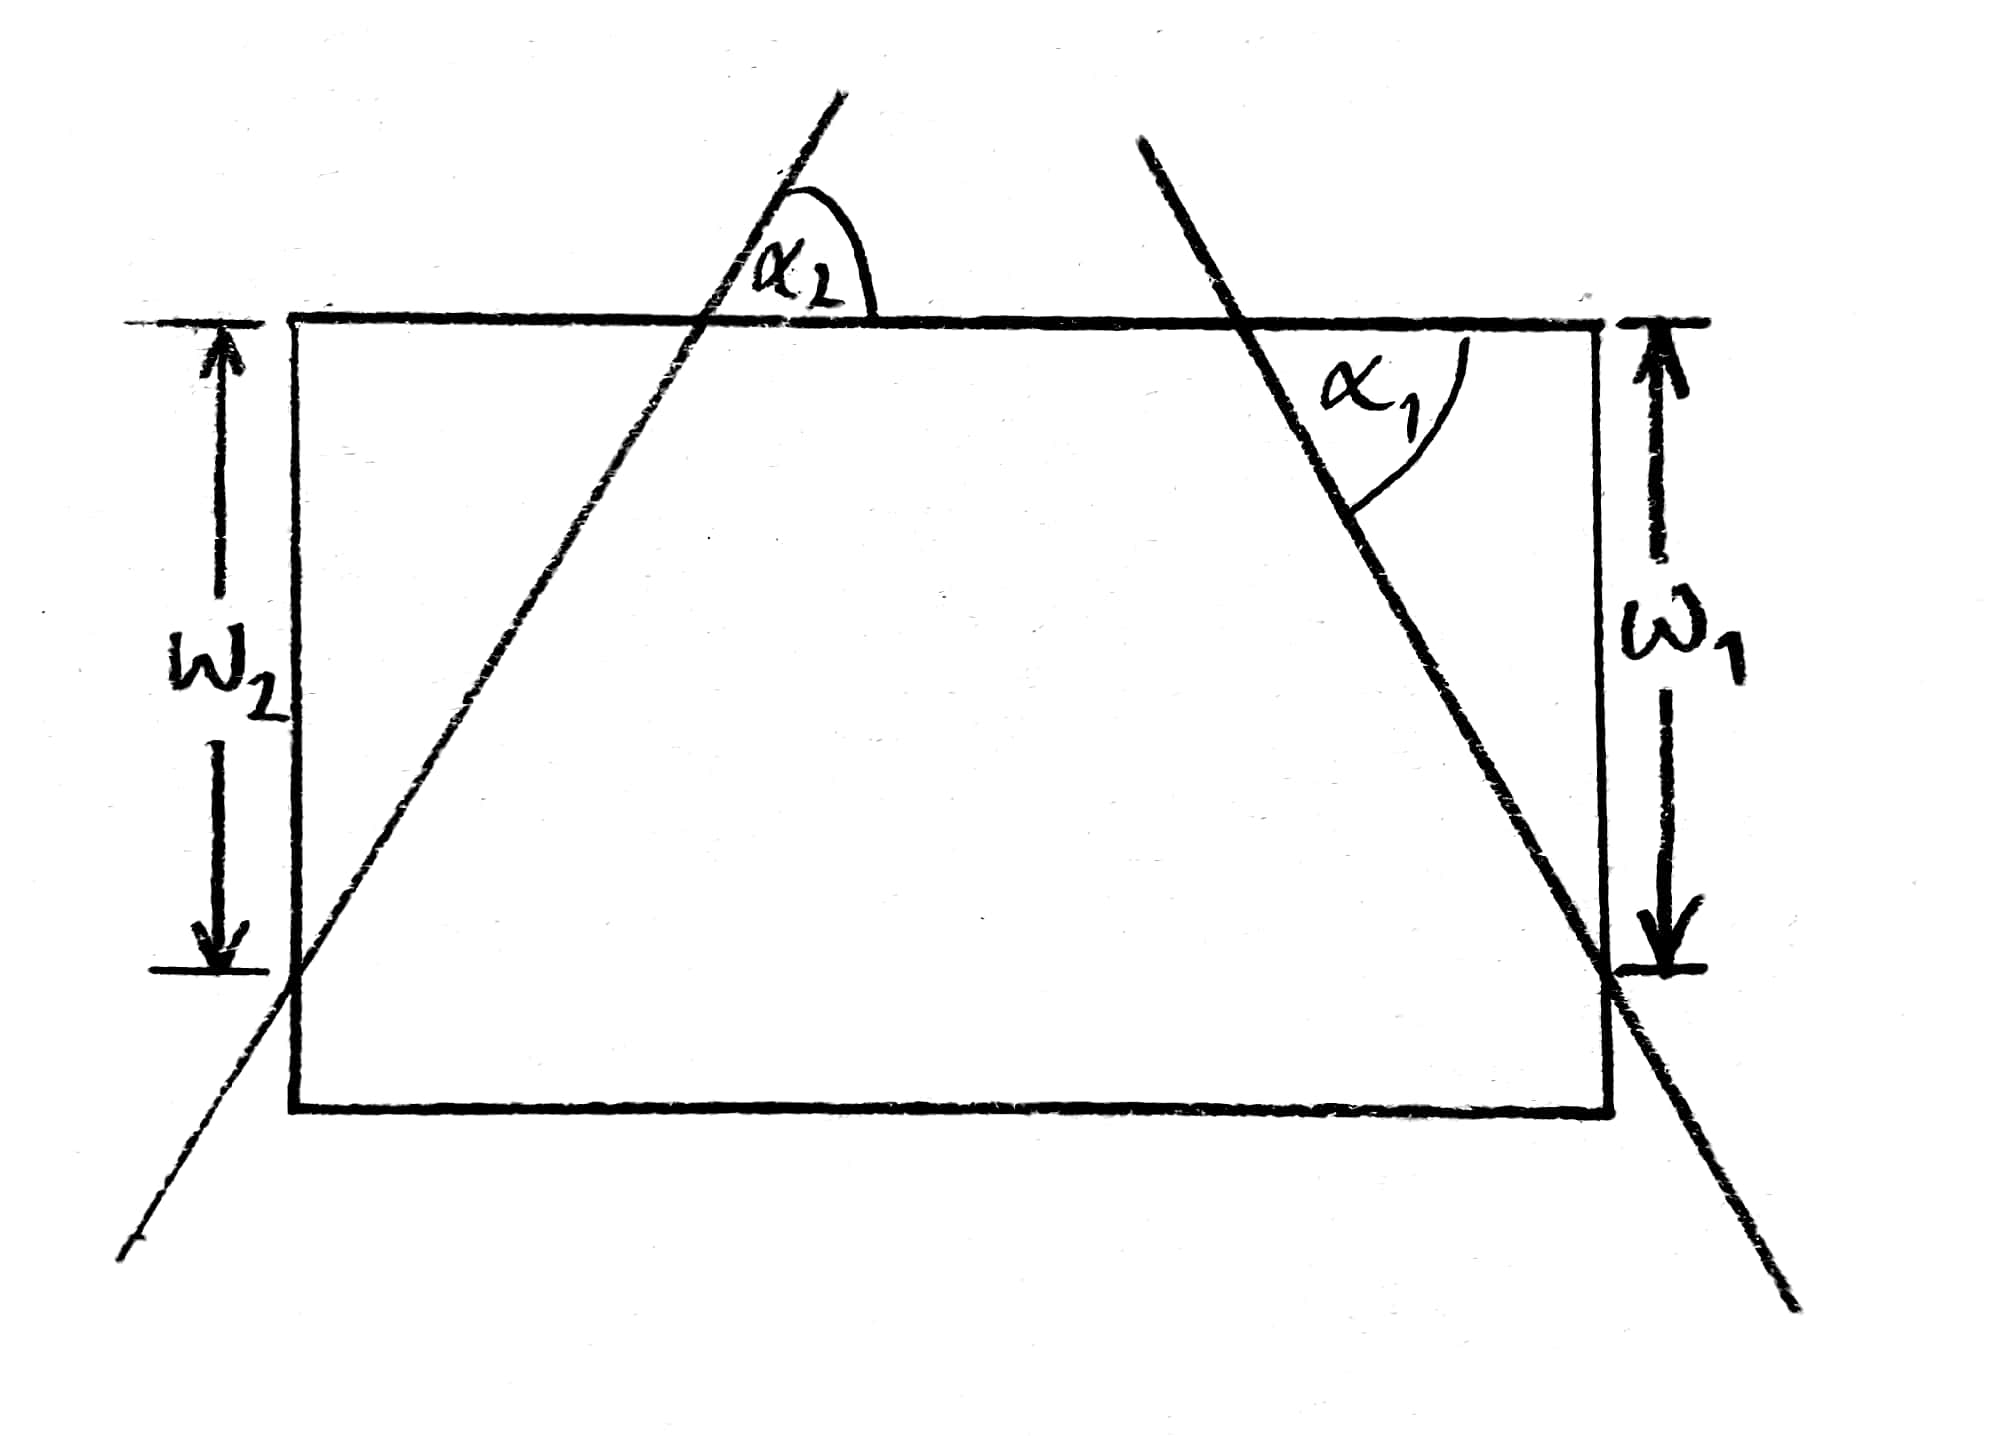
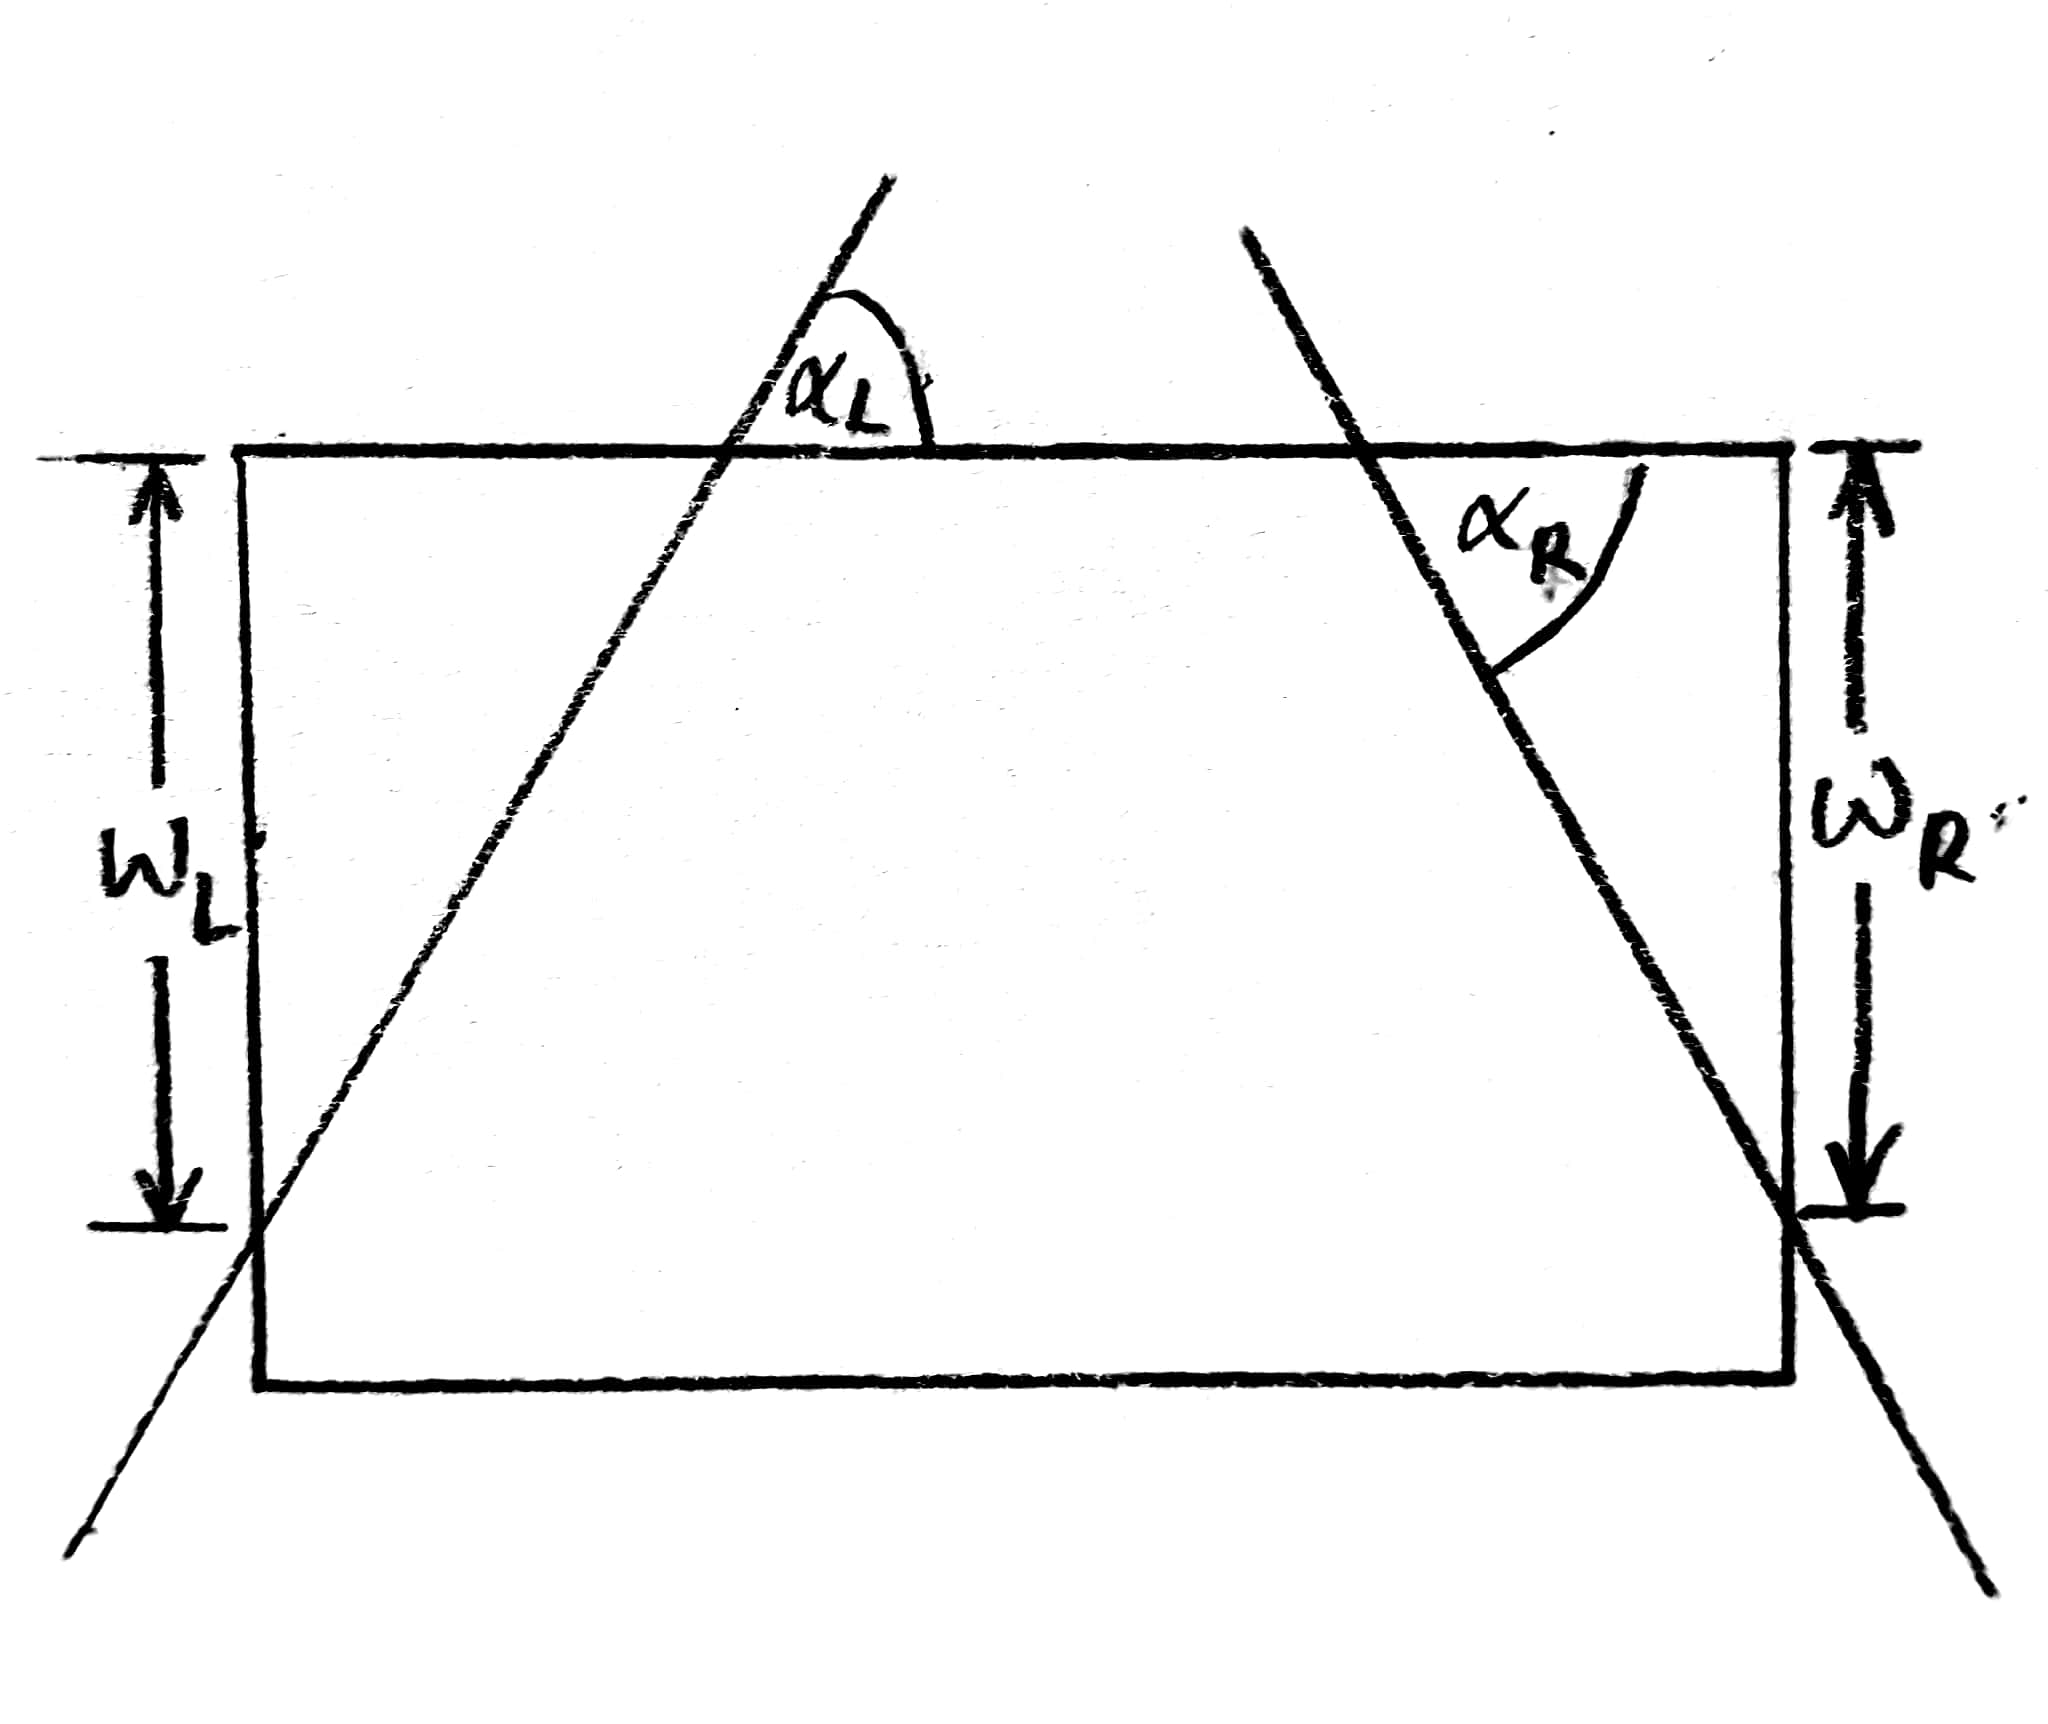
Geradenkapitel erstmal fertig und ein paar SÃtze zu modAct

Changed region(s): [[0.0311, 0.0613, 0.996, 0.9192], [0.0311, 0.7967, 0.0934, 0.9192], [0.1867, 0.5209, 0.2179, 0.5822]]

diff --git a/documentation/iterativeAuswertung.tex b/documentation/iterativeAuswertung.tex
@@ -18,8 +18,8 @@
 	
 	\subsection{Verwendete Repräsentationsformen von Geraden}
 	
-	Die Funktion HoughLines gibt als Ergebnis eine Liste von Geraden aus, die durch die beiden Parameter $\rho$ und $\theta$ beschrieben werden wird. $\theta$ ist der Winkel zwischen der Normalen, die senkrecht auf der Geraden steht, und der x-Achse. Der Winkel  $\rho$ ist die Länge dieser Normalen, d.h. der Abstand zwischen der Geraden und dem Ursprung des Koordinatensystems. Der Winkel 
-	Abbildung \ref{fig:rho_theta1} zeigt ein Beispiel für die Repräsentation zweier Fahrbahnlinien in der $\rho$-$\theta$-Darstellung, für den Fall, dass der Wagen relativ mittig und gerade auf der Fahrbahn steht. Das Rechteck symbolisiert die Ränder des Kamerabildes. Der Koordinatenursprung liegt in der oberen linken Ecke. $\theta1$ ist positiv, $\theta2$ negativ. $\rho1$ und $\rho2$ sind jeweils die Abstände der Geraden vom Koordinatenursprung.
+	Die Funktion HoughLines gibt als Ergebnis eine Liste von Geraden aus, die durch die beiden Parameter $\rho$ und $\theta$ beschrieben werden wird. $\theta$ ist der Winkel zwischen der Normalen, die senkrecht auf der Geraden steht, und der x-Achse. Der Winkel  $\rho$ ist die Länge dieser Normalen, d.h. der Abstand zwischen der Geraden und dem Ursprung des Koordinatensystems. Der Winkel $\theta$ ist immer positiv, $\rho$ kann, je nach Lage der Geraden positiv oder negativ sein.
+	Abbildung \ref{fig:rho_theta1} zeigt ein Beispiel für die Repräsentation zweier Fahrbahnlinien in der $\rho$-$\theta$-Darstellung, für den Fall, dass der Wagen relativ mittig und gerade auf der Fahrbahn steht. Das Rechteck symbolisiert die Ränder des Kamerabildes. Der Koordinatenursprung liegt in der oberen linken Ecke. $\theta_R$ und $\rho_R$ sind die Parameter der rechten Fahrbahnlinie, $\theta_L$ und $\rho_L$ die der Linken.
 	
 	\begin{figure}[H]
 		\centering
@@ -28,7 +28,7 @@
 		\label{fig:rho_theta1}
 	\end{figure}
 	
-	Eine Schwäche dieser Repräsentationsform wird liegt darin, dass zwei sehr ähnliche Geraden komplett verschiedene Winkel $\theta$ haben können. Dies wird in Abbildung \ref{fig:rho_theta2} deutlich. $\theta1$ beträgt hier ca. $70^\circ$, $\theta2$ ca. $-100^\circ$.
+	Diese Form der Geradenrepräsentation jedoch problematisch, wenn es darum geht, zwei Geraden miteinander zu vergleichen. Ein Beispiel ist in Abbildung \ref{fig:rho_theta2} dargestellt. Hier beträgt die Änderung der Winkel $\theta_R$ und $\theta_L$ der beiden Fahrbahnlinien $\Delta\theta=5^\circ$, obwohl die Position der rechten Fahrbahnlinie sich viel mehr verändert hat, als die der linken.
 	
 	
 	
@@ -39,7 +39,7 @@
 		\label{fig:rho_theta2}
 	\end{figure}
 
-	Um dieses Problem zu umgehen wurden die Geraden mithilfe der Funktion get\_offset\_alpha1 in eine andere Form umgerechnet, bei der diese durch den Offset $\omega$ auf der y-Achse und den Winkel zur x-Achse beschrieben werden. Die Umrechnung von der $\rho$-$\theta$-Form erfolgt folgendermaßen:\\
+	Um dieses Problem zu beheben wurden die Geraden mithilfe der Funktion get\_offset\_alpha1 in eine andere Form umgerechnet, bei der diese durch den Offset $\omega$ auf der y-Achse und den Winkel zur x-Achse beschrieben werden. Die Umrechnung von der $\rho$-$\theta$-Form erfolgt folgendermaßen:\\
 
 	
 	
@@ -66,7 +66,7 @@
 		\label{fig:alpha_omega1}
 	\end{figure}
 
-	Auch bei dieser Form ergibt sich das Problem, dass sich bei geringfügiger Veränderung der Geraden deren Parameter in bestimmten Situationen stark ändern. Dies ist besonders für die rechte Fahrbahnlinie der Fall, wie sich in Abbildung \ref{fig:alpha_omega2} erkennen lässt. Hier sieht man, dass sich der Offset $\omega$ stark ändert, wenn sich der Winkel der Geraden leicht ändert.
+	Bei dieser Form ergibt sich jedoch das Problem, dass sich bei geringfügiger Veränderung der Geraden deren Parameter in bestimmten Situationen stark ändern. Dies ist besonders für die rechte Fahrbahnlinie der Fall, wie sich in Abbildung \ref{fig:alpha_omega2} erkennen lässt. Hier sieht man, dass sich der Offset $\omega$ stark ändert, auch wenn sich der Winkel der Geraden nur leicht ändert.
 
 
 	\begin{figure}[H]
@@ -76,7 +76,7 @@
 		\label{fig:alpha_omega2}
 	\end{figure}
 
-	Daher wurden für die beiden Gerade zwei verschiedene Repräsentationsformen gewählt. Für die Linke gerade wird der Offset von der linken oberen Ecke gemessen, für die rechte der Offset von der rechten oberen Ecke. Die Winkel werden wie gehabt zur x-Achse gemessen. In dieser Form lassen sich die Geraden am besten vergleichen. Die Umformung von der $\rho$-$\theta$-Form geschieht in der Funktion get\_offset\_alpha2 durch folgende Berechnungen: \\
+	Daher wurden für die beiden Geraden zwei verschiedene Repräsentationsformen gewählt. Für die Linke gerade wird der Offset von der linken oberen Ecke gemessen, für die rechte der Offset von der rechten oberen Ecke. Die Winkel werden wie gehabt zur x-Achse gemessen. In dieser Form lassen sich die Geraden am besten vergleichen. Die Umformung von der $\rho$-$\theta$-Form geschieht in der Funktion get\_offset\_alpha2 durch folgende Berechnungen: \\
 	
 	\begin{align*}
 	\alpha=90^{\circ}-\theta
@@ -109,8 +109,8 @@
 
 	\subsection{Berechnung des Schnittpunktes der beiden Geraden}
 	
-	Der Lenkwinkel wird mithilfe der x-Koordinate des Schnittpunktes der beiden Geraden berechnet. Die Abweichung dieses x-Wertes vom Mittelpunkt kann als Regeldifferenz verwendet werden.\\
-	Die x-Koordinate des Schnittpunktes (engl. vanishing point) wird mit folgender Formel berechnet:\\
+	Der Lenkwinkel wird mithilfe der x-Koordinate des Fluchtpunktes, also des Schnittpunktes der beiden Geraden berechnet. Die Abweichung dieses x-Wertes vom Mittelpunkt kann als Regeldifferenz verwendet werden.\\
+	Die x-Koordinate des Fluchtpunktes (engl. vanishing point) wird in der Funktion get\_vp mit folgender Formel berechnet:\\
 	
 	\begin{align*}
 	vp_x=\frac{\omega_R-\omega_L}{\tan{\alpha_L}+\tan{\alpha_R}} \\

diff --git a/documentation/motor_servo_ansteuerung.tex b/documentation/motor_servo_ansteuerung.tex
@@ -1,0 +1,25 @@
+\section{Ansteuerung von Servo und Motorcontroller}
+
+
+Motorcontroller und Servo werden mithilfe eines Adafruit PCA9685 16-Kanal Servo Treibers angesteuert. Dieser nimmt Befehle des Raspberry Pi's über $I^2C$ entgegen und wandelt sie in ein PWM-Signal um. Das PWM Signal hat eine Periodendauer von 20ms, die Einschaltdauer $T_{on}$ liegt zwischen 1ms und 2ms. \\
+Der Servotreiber hat eine eigene Bibliothek aus der am wichtigsten die Funktion set\_pwm(kanal, on,off) ist. Als Kanal wurde für den Servo 0 gewählt, für den Motorcontroller 1. Der Einschaltzeitpunt ''on'' wird immer auf 0 gesetzt. Für den Auschaltzeitpunkt kann theoretisch eine Zahl zwischen 0 und 4095 gesetzt werden. Da beim Servo das On-Signal zwischen einer und zwei Millisekunden lang sein muss ergibt sich der theoretische Wert folgendermaßen: \\
+
+\begin{align*}
+	off&=T_{on}\cdot\frac{20ms}{4096}\\
+	off_{min}&=1ms\cdot\frac{20ms}{4096} =204,8\\
+	off_{max}&=2ms\cdot\frac{20ms}{4096} = 409,6
+\end{align*}
+
+Für das verwendete Auto wurde der Min- und Maxwert empirisch ermittelt indem die geschaut wurde, bei welchen Werten die Räder bis zum Anschlag ausgelenkt sind. Es wurden folgende Werte ermittelt:\\
+Vollausschlag rechts: 272\\
+Vollausschlag rechts: 342\\
+Mittelposition: 307\\
+
+Für den Vollausschlag nach rechts und links wurden die Werte 297 und 317 Verwendet, damit nicht zu scharfe Kurven gefahren werden.\\
+
+Ebenso wurden für den Motor die Werte für den off-Parameter durch Ausprobieren ermittelt, indem geschaut wurde, bei welchen Werten das Auto mit angemessener Geschwindigkeit fährt. Hier wurden ermittelt:\\
+Vorwärts: 320\\
+Rückwärts: 295\\
+Stop: 307\\
+
+

diff --git a/documentation/documentation.tex b/documentation/documentation.tex
@@ -138,7 +138,9 @@
   
   \input{werkzeugeDerBildverarbeitung} 
   
-  \input{iterativeAuswertung}	
+  \input{iterativeAuswertung}
+  
+  \input{motor_servo_ansteuerung}	
 	
 	
 	
@@ -157,7 +159,7 @@
 
   % Bibliograpy / Literaturverzeichnis
   \newpage
-  \bibliography{literatur}
+  %\bibliography{literatur}
   \addcontentsline{toc}{section}{Literaturverzeichnis}
   % display bibliography
  
